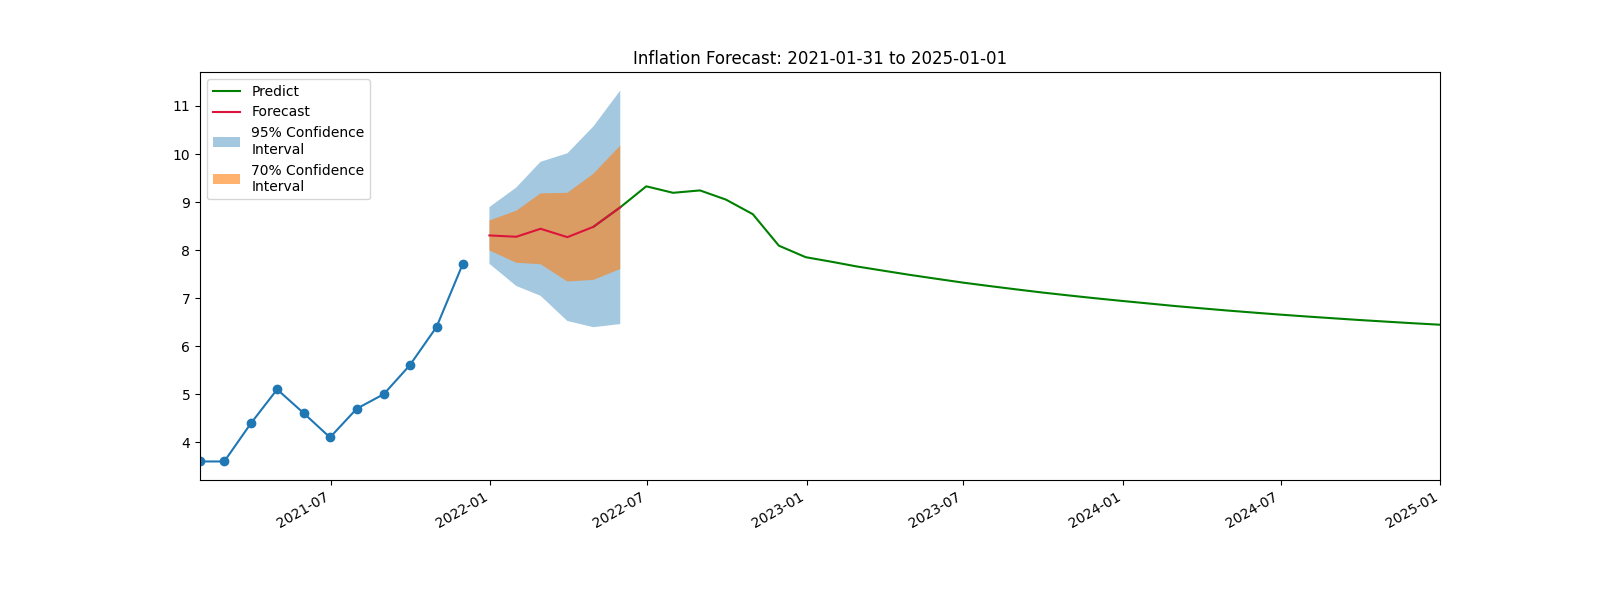
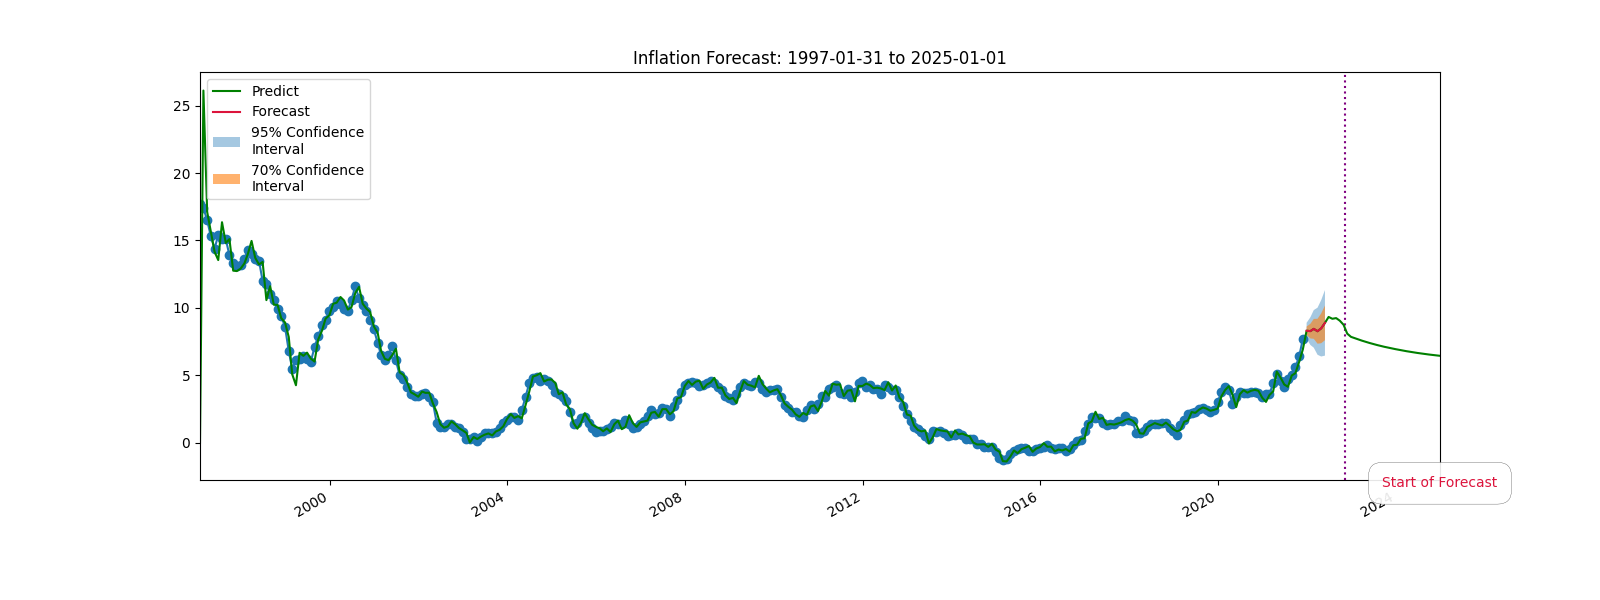
updated graph labels and forecast line

diff --git a/application.py b/application.py
@@ -136,13 +136,15 @@ def predict_datapoint():
             return conf_interval['index'].to_list()
 
         indx_list = index_list()
-        for date_point, label, clr in event_list:
-            plt.axvline(x=date_point, color=clr, linestyle=':')
-            plt.text(x=date_point, y=23, s=label, horizontalalignment='center', verticalalignment='center',
-                     color=clr, bbox=dict(facecolor='white', alpha=0.9, boxstyle='round, pad=1', linewidth=0.2))
+        plt.figure(figsize=(16, 6))
+        if event== "None":
+            plt.axvline(x=pd.to_datetime("2022-11-09"), color="purple", linestyle=':')
+        else:
+            plt.axvline(x=event_list[1][0], color="purple", linestyle=':')
+        plt.text(x=event_list[1][0], y=17, s="Start of Forecast", horizontalalignment='center', verticalalignment='center',
+                    color="crimson", bbox=dict(facecolor='white', alpha=0.9, boxstyle='round, pad=1', linewidth=0.2))
 
         df = pd.read_csv("/Users/damodargupta/Desktop/EPICS-PROJECT/date-wise-data.csv")
-        plt.figure(figsize=(16, 6))
         get_inflation_rate_range(df, start_date, end_date)    
         yhat.plot(legend=True, color='green')
         conf_int_95['mean'].plot(legend=True, label='Forecast', color='crimson')
@@ -151,7 +153,12 @@ def predict_datapoint():
         plt.fill_between(x=indx_list, y1=conf_int_70['mean_ci_upper'], y2=conf_int_70['mean_ci_lower'],
                          alpha=0.6, label='70% Confidence\nInterval', linewidth=0)
         plt.xlim([start_date, end_date])
-        plt.title(f'Inflation Forecast: {start_date} to {end_date}')
+        if event == "Ukraine-Russia War":
+            plt.title(f'Inflation Forecast: 2022-02-28 to {end_date}')
+        elif event == "Covid 19 Pandemic":
+            plt.title(f'Inflation Forecast: 2022-04-20 to {end_date}')
+        else: 
+            plt.title(f'Inflation Forecast: {start_date} to {end_date}')
         plt.legend(loc='upper left')
         plt.savefig('/Users/damodargupta/Desktop/EPICS-PROJECT/plot.png', format='png')
 
